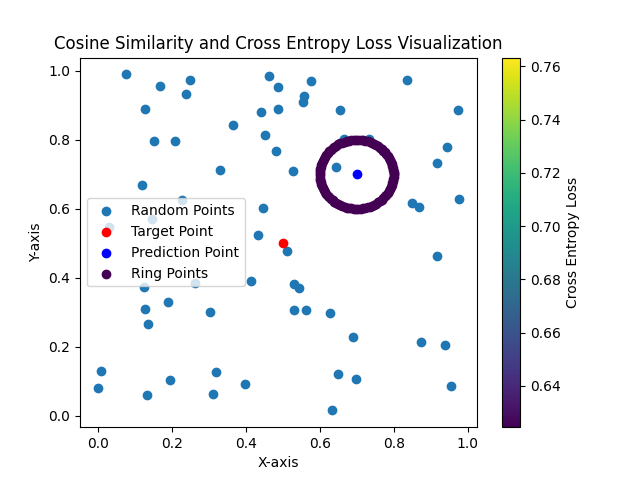
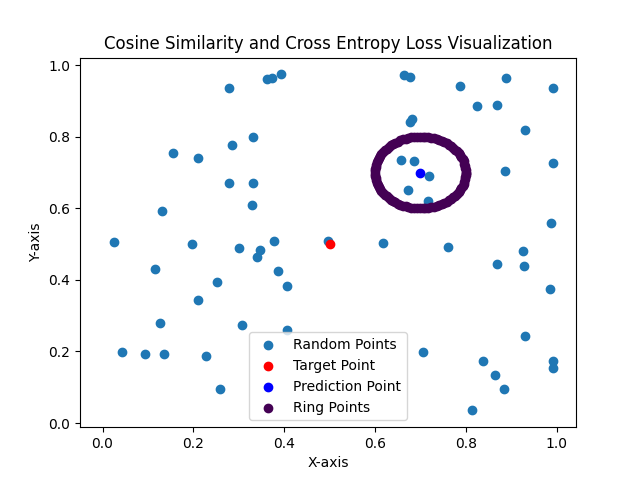
fx

diff --git a/PlotCosineSimilarityGradExample.py b/PlotCosineSimilarityGradExample.py
@@ -21,7 +21,7 @@ normed_ring_points = ring_points / torch.norm(torch.tensor(ring_points), dim=-1,
 alltargets= torch.tensor(np.concatenate([target_point, random_points]))
 normed_alltargets = alltargets / torch.norm(torch.tensor(alltargets), dim=-1, keepdim=True)
 cosine_similarity = normed_ring_points @ normed_alltargets.T
-losses = torch.nn.CrossEntropyLoss()(torch.tensor(ring_points), torch.zeros(100,dtype=torch.long))
+losses = torch.nn.CrossEntropyLoss()(torch.tensor(ring_points), torch.zeros(100,dtype=torch.long)).detach().numpy()
 
 #plot losses
 plt.plot(losses)
@@ -43,10 +43,11 @@ plt.scatter(prediction_point[0], prediction_point[1], color='blue', label='Predi
 # Plot the ring points with color based on cross entropy loss
 norm = plt.Normalize(losses.min(), losses.max())
 colors = plt.cm.viridis(norm(losses))
-plt.scatter(ring_points[:, 0], ring_points[:, 1], c=colors, label='Ring Points')
+print(colors)
 
-# Add color bar
-sm = plt.cm.ScalarMappable(cmap=plt.cm.viridis, norm=norm)
+
+plt.scatter(ring_points[:, 0], ring_points[:, 1], c=losses, label='Ring Points')
+
 
 # Add legend and show plot
 plt.legend()
